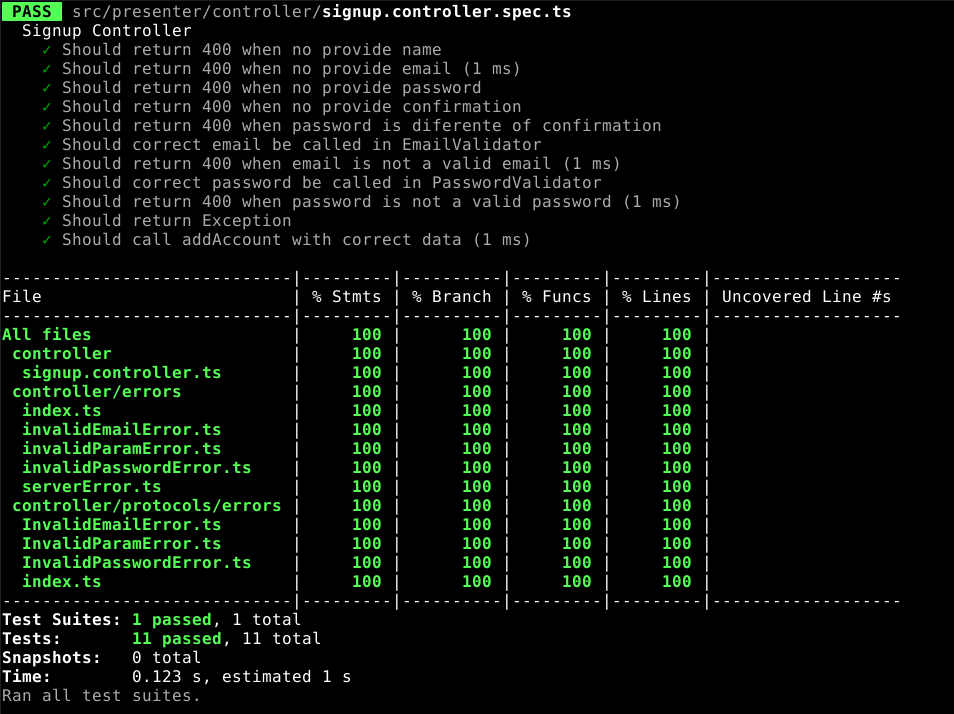
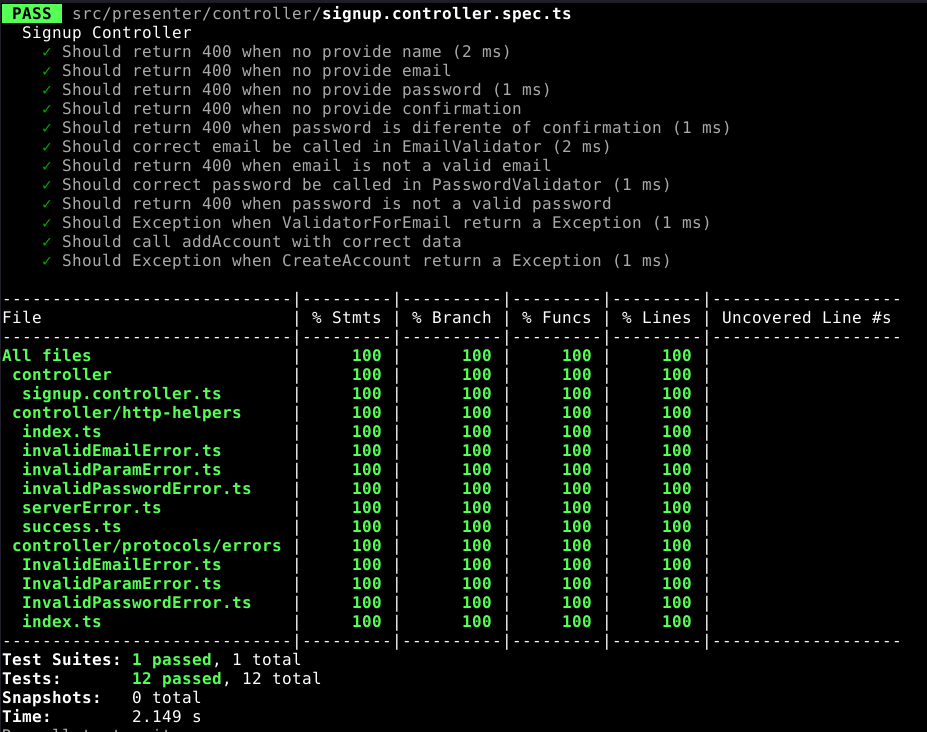
feat: add sonar and solve code smells

Changed region(s): [[0.0, 0.0, 0.9666, 1.0]]

diff --git a/src/presenter/controller/signup.controller.spec.ts b/src/presenter/controller/signup.controller.spec.ts
@@ -41,7 +41,7 @@ describe('Signup Controller', () => {
   class CreateAccountStub implements CreateAccount {
     addAccount = async (createAccountModel: CreateAccountModel): Promise<AccountModel> => {
       const fackeAccount = { ...createAccountModel, id: 'valid_id' }
-      return await new Promise(resolve => resolve(fackeAccount))
+      return await Promise.resolve(fackeAccount)
     }
   }
 

diff --git a/jest.config.ts b/jest.config.ts
@@ -12,6 +12,7 @@ export default {
 
   // Indicates whether the coverage information should be collected while executing the test
   collectCoverage: true,
+  testResultsProcessor: 'jest-sonar-reporter',
 
   // An array of glob patterns indicating a set of files for which coverage information should be collected
   // collectCoverageFrom: ['<rootDir>/src/**/*.ts'],

diff --git a/src/presenter/controller/signup.controller.ts b/src/presenter/controller/signup.controller.ts
@@ -51,7 +51,7 @@ export class SignupController implements Controller {
         password, email, name
       })
 
-      return await new Promise(resolve => resolve(success(account)))
+      return await Promise.resolve(success(account))
     } catch (error) {
       return serverError()
     }

diff --git a/README.md b/README.md
@@ -9,3 +9,6 @@
 
 ![Coverage](img/tests.png)
 
+![Coverage](img/sonar.png)
+
+
